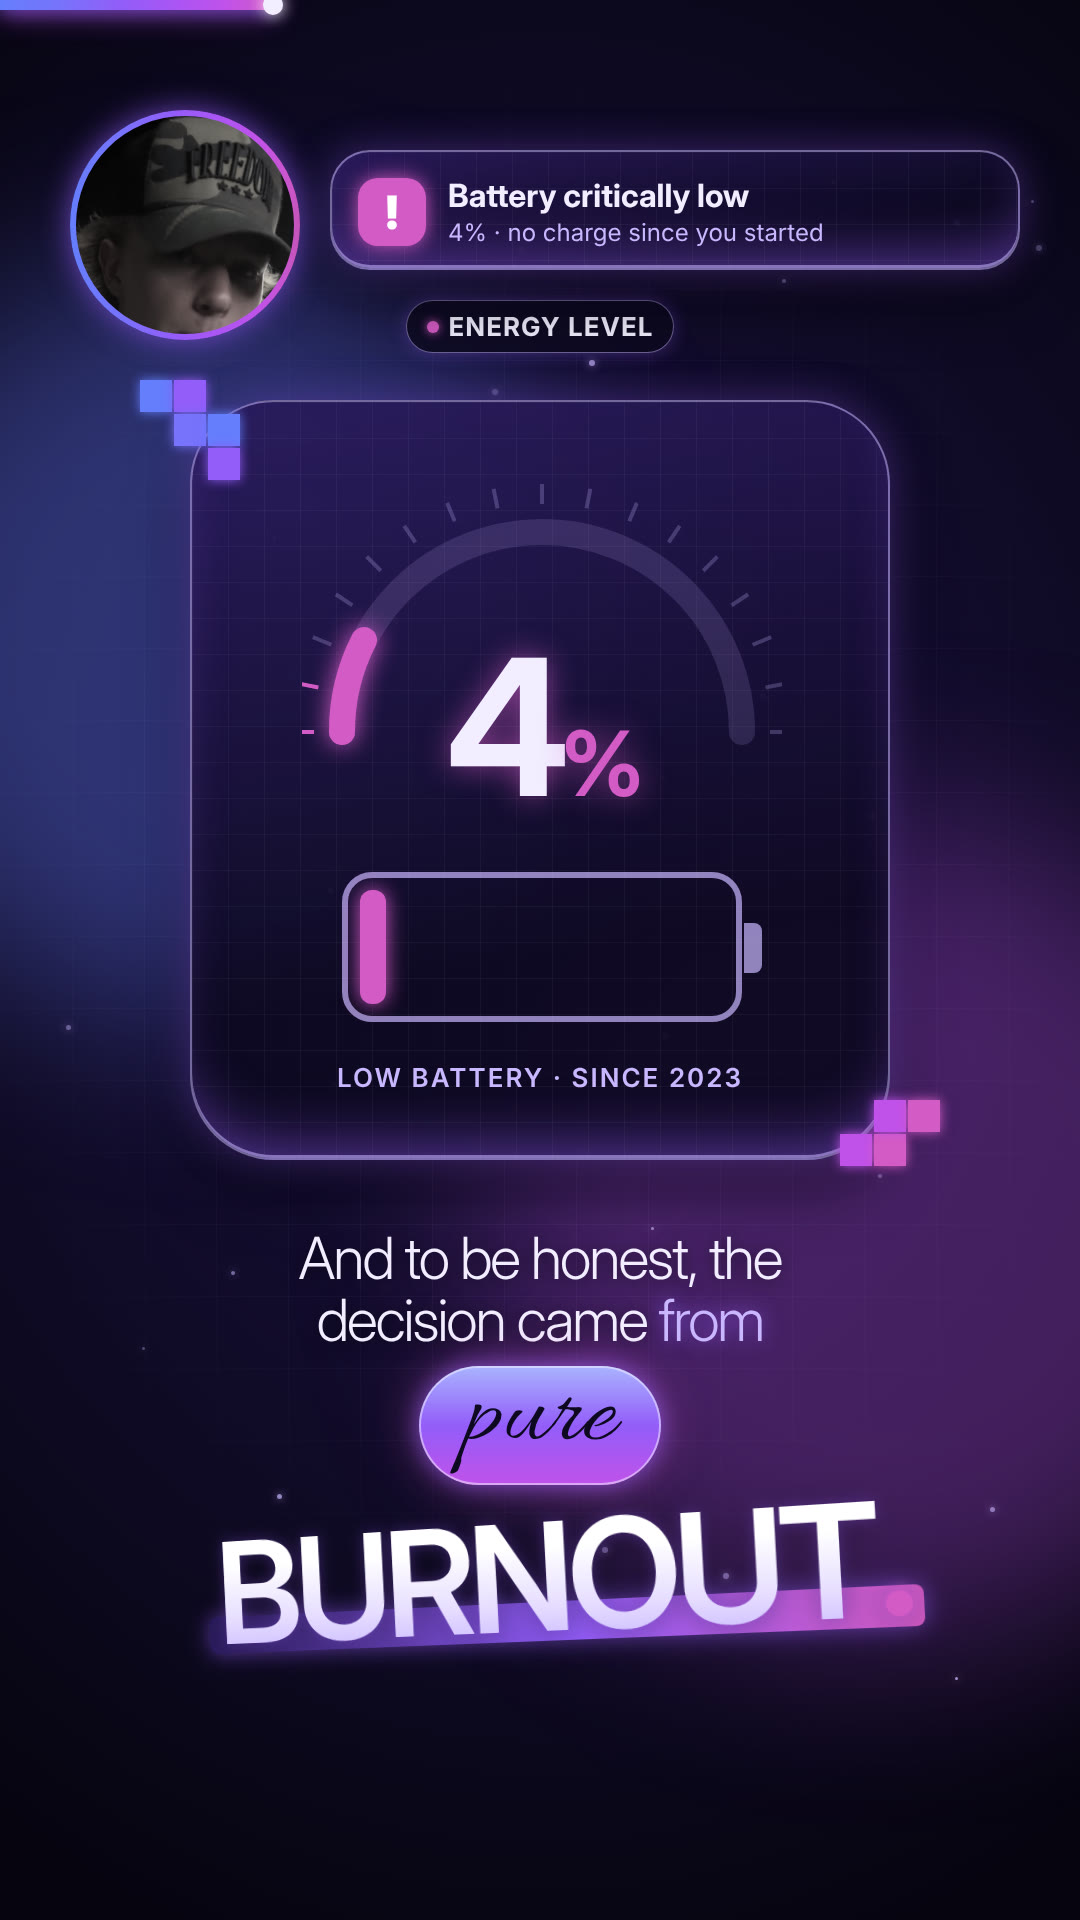
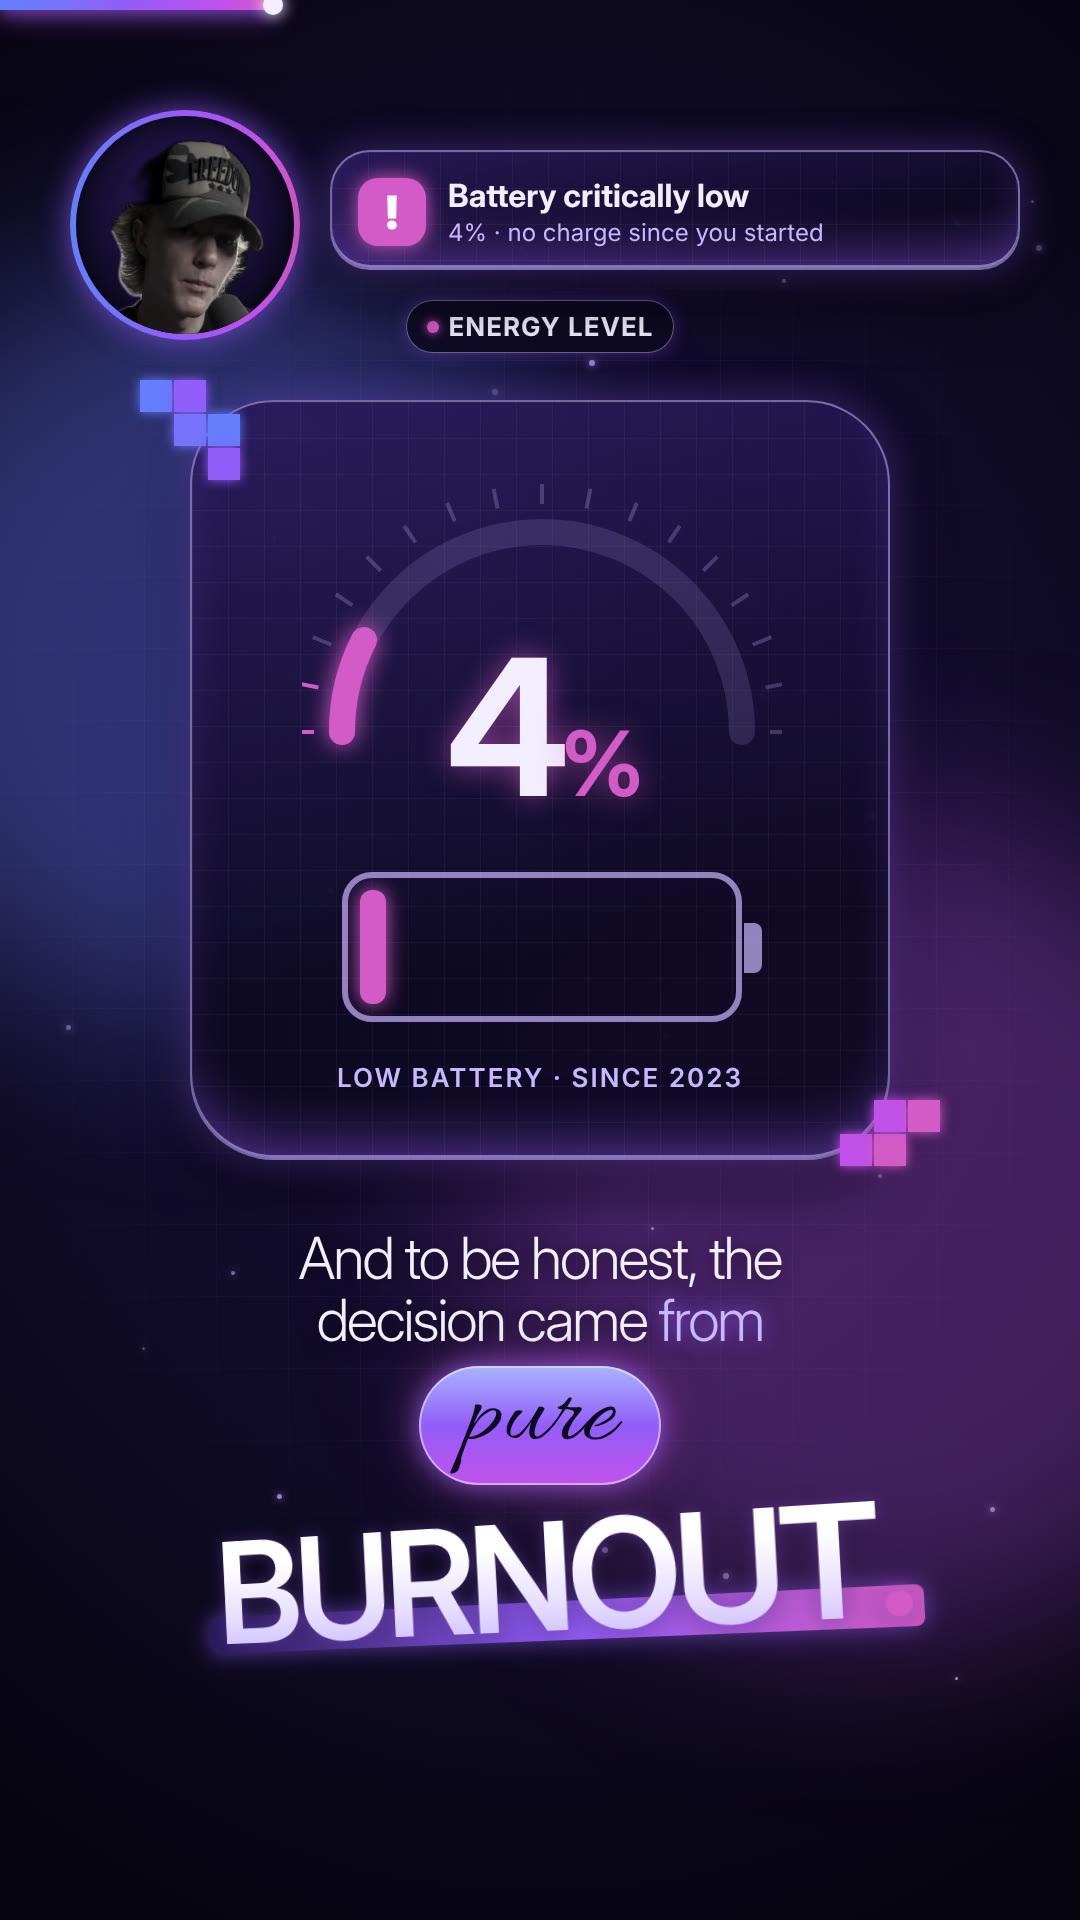
Preview v2: recentre speaker in F03 picture-in-picture circle
Claude-Session: https://claude.ai/code/session_01YWNjH6ojzfrFwpCztSqeTg

Changed region(s): [[0.0611, 0.0625, 0.275, 0.1875]]

diff --git a/edit/left_business/preview_v2/gen_preview_v2.py b/edit/left_business/preview_v2/gen_preview_v2.py
@@ -306,7 +306,7 @@ behind01 = behind_f01 = None
 
 # F03: speaker PiP (desaturated) + low-battery toast
 pip = f"""<div class="abs" style="left:70px;top:110px;width:230px;height:230px;border-radius:50%;padding:6px;background:{GRAD};box-shadow:0 0 30px rgba(147,93,249,.7)">
- <div style="width:100%;height:100%;border-radius:50%;background:url(file://{W}/stills/F03.png) -150px -170px/540px 960px;filter:saturate(.25) brightness(.85)"></div></div>
+ <div style="width:100%;height:100%;border-radius:50%;overflow:hidden;background:radial-gradient(circle at 50% 40%,#2A1B5C,#0D0920 75%);box-shadow:inset 0 0 24px rgba(0,0,0,.6)"><div style="width:100%;height:100%;background:url(file://{W}/stills/F03_cut.png) -54px -84px/346px 614px no-repeat;filter:saturate(.25) brightness(.9) contrast(1.08)"></div></div></div>
 <div class="glass" style="left:330px;top:150px;width:690px;height:120px;border-radius:40px">
  <div class="abs" style="left:26px;top:26px;width:68px;height:68px;border-radius:20px;background:#D35BC5;box-shadow:0 0 20px #D35BC5;font:900 46px Inter;color:#fff;text-align:center;line-height:68px">!</div>
  <div class="abs" style="left:116px;top:24px;font:700 32px 'Inter Display';color:#F2EEFF">Battery critically low</div>
